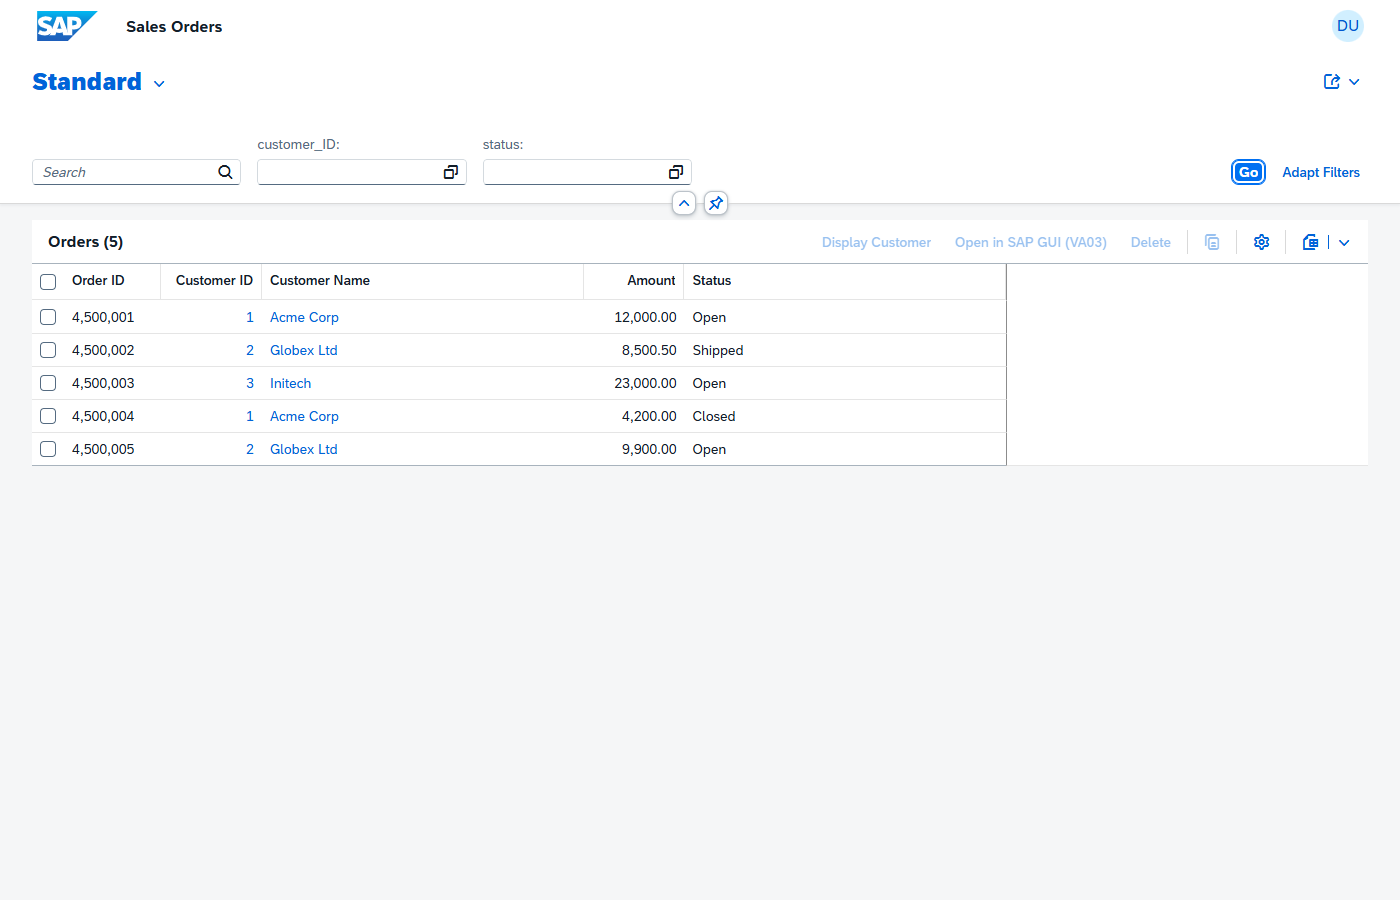
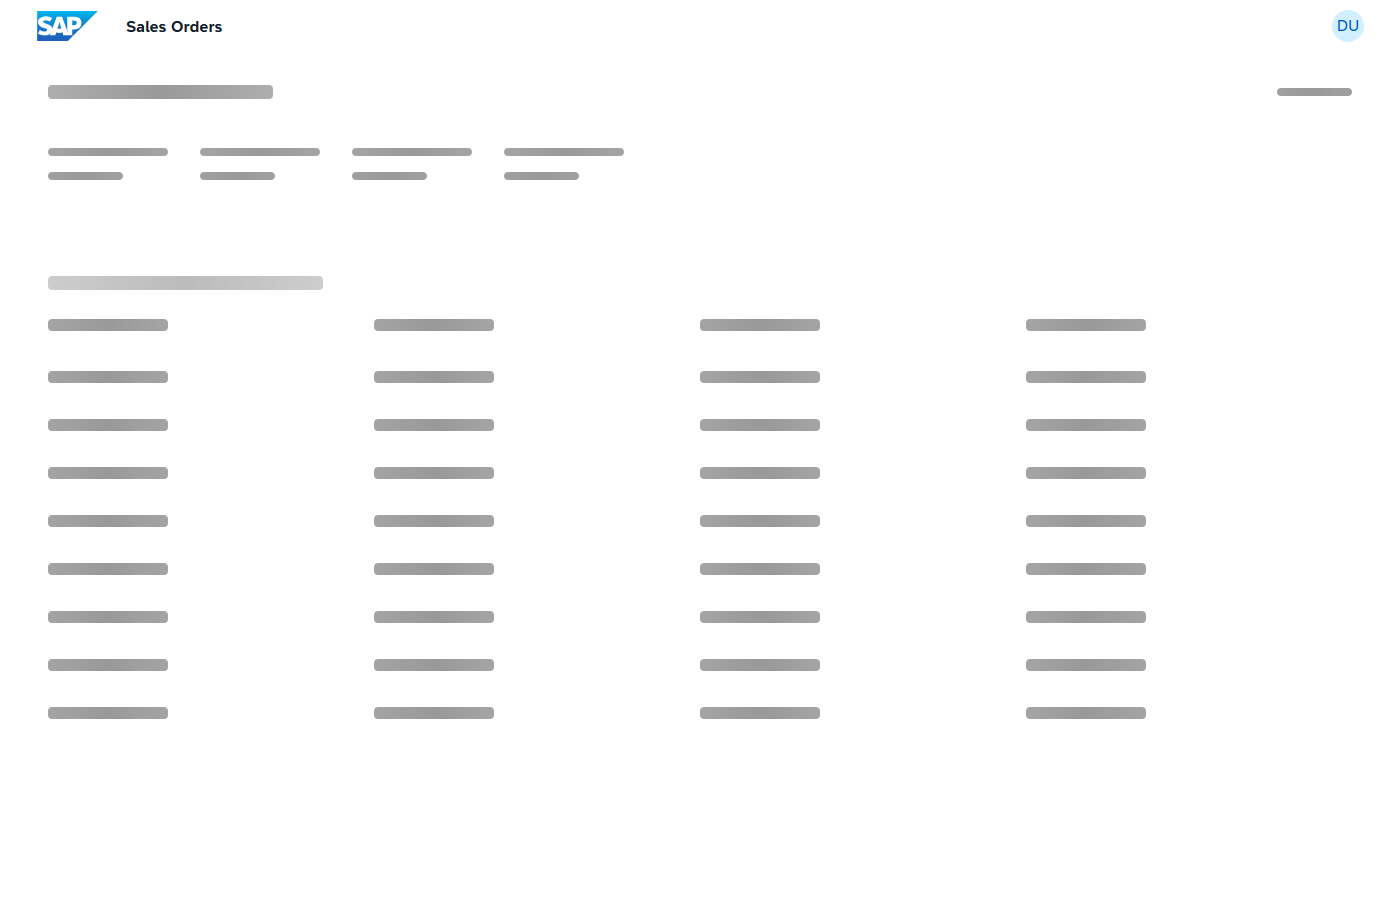
refactor: eliminate defensive hacks, sanitize manifest, clean flp bootstrap, and synchronize architecture docs

diff --git a/app/flp.html b/app/flp.html
@@ -84,7 +84,7 @@
                 }
             },
             applications: {
-                // Target Mapping 1: Order-manage -> App A
+                // Target Mapping 1: Order-manage -> App A (Sales Orders)
                 // Semantic Object: "Order", Action: "manage"
                 // Points to SAPUI5 Component crossn.orders at ./orders/webapp (List Report on Orders)
                 "Order-manage": {
@@ -95,7 +95,7 @@
                     url: "./orders/webapp"
                 },
 
-                // Target Mapping 2: Customer-display -> App B
+                // Target Mapping 2: Customer-display -> App B (Customers)
                 // Semantic Object: "Customer", Action: "display"
                 // Points to SAPUI5 Component crossn.customers at ./customers/webapp (List Report + Object Page)
                 // Target of the intent-based cross-app navigation link from App A
@@ -110,7 +110,6 @@
                 // Target Mapping 3: LegacyOrder-display -> Mock BSP Application
                 // Semantic Object: "LegacyOrder", Action: "display"
                 // Pattern 2: Cloud to On-Premise (BTP App to On-Premise ABAP BSP via SAP Cloud Connector)
-                // in a real system this URL is /sap/bc/bsp/sap/<app> on the ABAP backend, and it needs the ICF service active, a system alias and the catalog assigned to the user's role.
                 "LegacyOrder-display": {
                     title: "Legacy Orders",
                     description: "Legacy BSP Order System (Cloud to On-Prem)",
@@ -121,8 +120,6 @@
                 // Target Mapping 4: Order-displayGUI -> SAP GUI for HTML (WebGUI Transaction VA03)
                 // Semantic Object: "Order", Action: "displayGUI"
                 // Pattern 3: On-Premise to On-Premise (S/4HANA FES to SAP GUI Transaction VA03)
-                // In an on-premise system, configured in /UI2/FLPD_CUST with:
-                // Application Type: "Transaction", Transaction: "VA03", System Alias: "LOCAL"
                 "Order-displayGUI": {
                     title: "Display Sales Order (VA03)",
                     description: "SAP GUI for HTML Transaction (On-Prem to On-Prem)",
@@ -152,25 +149,15 @@
 
     <script type="text/javascript">
         sap.ui.getCore().attachInit(function () {
-            // Ensure the Demo group with the two tiles (Sales Orders, Customers) is configured
+            // Isolate our Demo group so only our 3 demo tiles appear on the Launchpad homepage
             var oLpConfig = sap.ui.require("sap/base/util/ObjectPath").get("services.LaunchPage.adapter.config", window["sap-ushell-config"]);
             if (oLpConfig && oLpConfig.groups && oLpConfig.groups.length > 0) {
-                var demoGroup = oLpConfig.groups[0];
-                demoGroup.title = "Demo";
-                demoGroup.tiles = demoGroup.tiles.filter(function (t) {
-                    return t.properties && t.properties.targetURL !== "#LegacyOrder-display";
-                });
-                oLpConfig.groups = [demoGroup];
+                oLpConfig.groups = [oLpConfig.groups[0]];
             }
 
-            var oRenderer = sap.ushell.Container.createRenderer("fiori2", true);
-            if (oRenderer && typeof oRenderer.then === "function") {
-                oRenderer.then(function (renderer) {
-                    renderer.placeAt("content");
-                });
-            } else if (oRenderer && typeof oRenderer.placeAt === "function") {
-                oRenderer.placeAt("content");
-            }
+            sap.ushell.Container.createRenderer("fiori2", true).then(function (renderer) {
+                renderer.placeAt("content");
+            });
         });
     </script>
 </head>

diff --git a/app/customers/webapp/ext/controller/CustomActions.js b/app/customers/webapp/ext/controller/CustomActions.js
@@ -1,30 +1,46 @@
-sap.ui.define([], function () {
+sap.ui.define([
+    "sap/m/MessageToast"
+], function (MessageToast) {
     "use strict";
 
     return {
-        // Cross-app navigation to legacy BSP via FLP Navigation service
-        openLegacyBSP: function (oContext, aSelectedContexts) {
-            var ctx = oContext || (aSelectedContexts && aSelectedContexts[0]);
-            if (!ctx) {
-                try {
-                    var oTable = sap.ui.getCore().byId("crossn.customers::CustomersList--fe::table::Customers::LineItem-innerTable");
-                    if (oTable && oTable.getSelectedItems && oTable.getSelectedItems().length > 0) {
-                        ctx = oTable.getSelectedItems()[0].getBindingContext();
-                    }
-                } catch (e) {}
-            }
-            var sId = ctx ? ctx.getProperty("ID") : "";
-            if (!sId) {
-                var m = (window.location.hash || "").match(/[?&]ID=([^&]+)/);
-                if (m) sId = m[1];
-            }
-            if (!sId) sId = "1";
+        /**
+         * Triggered from Customers List Report or Object Page
+         * Pattern 2: Cloud-to-On-Premise cross-navigation to Legacy ABAP BSP
+         * In production: BTP Launchpad -> SAP Cloud Connector -> ABAP ICF node (/sap/bc/bsp/sap/...)
+         */
+        openLegacyBSP: function (oBindingContext, aSelectedContexts) {
+            // Support both Object Page header action (oBindingContext)
+            // and List Report table selection (aSelectedContexts)
+            const context = (aSelectedContexts && aSelectedContexts.length > 0)
+                ? aSelectedContexts[0]
+                : oBindingContext;
 
-            sap.ushell.Container.getServiceAsync("Navigation").then(function (oNav) {
-                oNav.navigate({
-                    target: { semanticObject: "LegacyOrder", action: "display" },
-                    params: { customerId: String(sId) }
+            if (!context) {
+                MessageToast.show("Please select a customer first.");
+                return;
+            }
+
+            const customerId = context.getProperty("ID");
+            if (!customerId) {
+                MessageToast.show("No customer ID available for navigation.");
+                return;
+            }
+
+            // Cross-app navigation via FLP Shell Navigation Service
+            sap.ushell.Container.getServiceAsync("Navigation").then(function (oNavService) {
+                oNavService.navigate({
+                    target: {
+                        semanticObject: "LegacyOrder",
+                        action: "display"
+                    },
+                    params: {
+                        customerId: String(customerId)
+                    }
                 });
+            }).catch(function (err) {
+                console.error("Navigation to Legacy BSP failed:", err);
+                MessageToast.show("Navigation service error.");
             });
         }
     };

diff --git a/readme.md b/readme.md
@@ -1,117 +1,135 @@
-# SAP Fiori Launchpad Cross-App Navigation Demo
+# SAP Fiori Launchpad Cross-App Navigation Enterprise Demo
 
-A minimal, projector-ready demonstration of SAP Fiori Launchpad (FLP) intent-based cross-app navigation:
-1. **Cloud to Cloud (Fiori Elements to Fiori Elements)**: App A (`crossn.orders`) &rarr; App B (`crossn.customers`)
-2. **Cloud to Standard ABAP BSP**: App B (`crossn.customers`) &rarr; Legacy BSP Mock (`legacy-bsp`)
+A pristine, projector-ready demonstration of SAP Fiori Launchpad (FLP) Intent-Based Navigation across all three core enterprise topologies:
 
-Runs completely locally with **Node.js + SAP CAP** (`npm install && npx cds watch`). No SAP backend, no cloud deployment, and no login required.
+1. **Cloud to Cloud (BTP to BTP)**: Sales Orders (`crossn.orders`) &rarr; Customers (`crossn.customers`) via declarative CDS annotations.
+2. **Cloud to On-Premise (Hybrid)**: Customers (`crossn.customers`) &rarr; Legacy ABAP BSP (`legacy-bsp`) via Shell Navigation Service and SAP Cloud Connector architecture.
+3. **On-Premise to On-Premise (S/4HANA to Classic GUI)**: Sales Orders (`crossn.orders`) &rarr; SAP GUI for HTML WebGUI (`legacy-webgui`) displaying transaction `VA03`.
+
+Runs completely locally with **Node.js + SAP CAP** (`npm install && npx cds watch`). Zero cloud costs, zero hardcoded URLs, and no SAP backend credentials needed.
 
 ---
 
-## 3 Core Files to Show the Team on Projector
+## 4 Core Files to Show the Team on Projector
 
-When presenting, focus on these three concise files:
+When presenting code architecture to senior stakeholders, focus on these files:
 
-1. **Target Mapping (App B Inbound)**:  
-   [`app/customers/webapp/manifest.json`](file:///c:/Users/Admin/Downloads/Project/SAP_Cross_Navigation/cross-navigation/app/customers/webapp/manifest.json)  
-   Shows how App B registers its inbound intent `Customer-display` under `sap.app > crossNavigation > inbounds` with the `ID` parameter.
-2. **Intent-Based Navigation Link (App A Annotations)**:  
-   [`app/orders/annotations.cds`](file:///c:/Users/Admin/Downloads/Project/SAP_Cross_Navigation/cross-navigation/app/orders/annotations.cds)  
-   Shows `UI.DataFieldWithIntentBasedNavigation` on the Orders table mapping local property `customer_ID` to semantic object `Customer`, action `display`, and target parameter `ID`.
-3. **Launchpad Target Resolution & Bootstrap**:  
-   [`app/flp.html`](file:///c:/Users/Admin/Downloads/Project/SAP_Cross_Navigation/cross-navigation/app/flp.html)  
-   Shows `window["sap-ushell-config"]` configuring the "Demo" group, the 2 tiles (Sales Orders, Customers), and the target mapping entries (`Order-manage`, `Customer-display`, `LegacyOrder-display`).
+1. **Declarative Navigation (CDS Annotations)**:  
+   `app/orders/annotations.cds`  
+   Shows how `UI.DataFieldWithIntentBasedNavigation` maps local property `customer_ID` to semantic object `Customer`, action `display`, and target parameter `ID` with zero lines of JavaScript.
+2. **Target Inbound & Contract (App B Manifest)**:  
+   `app/customers/webapp/manifest.json`  
+   Shows how App B registers its inbound intent `Customer-display` under `sap.app > crossNavigation > inbounds` with the `ID` parameter signature.
+3. **Programmatic Cross-Navigation Controller**:  
+   `app/customers/webapp/ext/controller/CustomActions.js`  
+   Shows clean invocations of `sap.ushell.Container.getServiceAsync("Navigation")` for hybrid cross-system navigation.
+4. **Launchpad Target Resolution & Bootstrap**:  
+   `app/flp.html`  
+   Demonstrates how `window["sap-ushell-config"]` configures the launchpad tiles and resolves semantic intents into components, ICF nodes, and WebGUI transactions.
 
 ---
 
 ## How to Run
 
-1. Open a terminal in the `cross-navigation` folder:
+1. Open a terminal in the `cross-navigation` directory:
    ```bash
    npm install
    npx cds watch
    ```
-2. Open the Fiori Launchpad in your browser:
-   - **Exact FLP URL**: [http://localhost:4004/flp.html](http://localhost:4004/flp.html)
-   - **CAP Index URL**: [http://localhost:4004/](http://localhost:4004/) (links to `flp.html` under *Web Applications*)
+2. Open the Fiori Launchpad Sandbox in your browser:
+   * **Exact FLP URL**: [http://localhost:4004/flp.html](http://localhost:4004/flp.html)
+   * **CAP Welcome Page**: [http://localhost:4004/](http://localhost:4004/) (links to `flp.html` under *Web Applications*)
 
-*(Optional verification check: `node test-e2e.cjs` runs a headless browser automation testing all 4 steps.)*
+3. Run automated end-to-end verification (headless browser test covering all 3 topologies):
+   ```bash
+   node test-e2e.cjs
+   ```
 
 ---
 
-## 4-Step Presentation Demo Script
+## 5-Step Presentation Demo Script
 
 ### Step 1: Open Fiori Launchpad
-- Navigate to [http://localhost:4004/flp.html](http://localhost:4004/flp.html).
-- **What to show**: The Launchpad displays a single group titled **Demo** with two standard tiles:
-  - **Sales Orders** (App A - Source)
-  - **Customers** (App B - Target)
-- Click the **Sales Orders** tile.
+* Navigate to `http://localhost:4004/flp.html`.
+* **What to show**: The Launchpad displays the **Demo** group with three enterprise tiles:
+  * **Sales Orders** (App A - Source Cloud App)
+  * **Customers** (App B - Target Cloud App)
+  * **VA03 - Sales Order** (On-Premise Classic Transaction Tile)
+* Click the **Sales Orders** tile.
 
 ### Step 2: Source App A (Orders List Report)
-- App A opens at `#Order-manage`.
-- **What to show**: The table displays 5 orders loaded from SQLite memory database. Point out the **Customer ID** column:
-  - Each customer ID (e.g. `1`, `2`, `3`) is rendered as a clickable link.
-  - Explain to the team that this is purely declarative CDS metadata: `UI.DataFieldWithIntentBasedNavigation`. No UI controller code was written for App A.
+* Sales Orders opens at `#Order-manage`.
+* **What to show**:
+  * Point out the **Customer ID** column: each ID (`1`, `2`, `3`) is rendered as a clean hyperlink.
+  * Highlight that this is **100% declarative zero-code navigation** defined via CDS annotation `@UI.DataFieldWithIntentBasedNavigation`.
+  * Also point out the toolbar actions: `"Display Customer"` and `"Open in SAP GUI (VA03)"`.
 
-### Step 3: Intent-Based Navigation to App B (Customers)
-- Click on Customer ID **1** (Acme Corp).
-- **What to show**: The launchpad resolves the intent `#Customer-display?ID=1` and transitions smoothly to App B (`crossn.customers`).
-- App B opens displaying the Customer Object Page for **Acme Corp** (ID `1`, City `Mumbai`).
-- Explain that App B's `manifest.json` inbound filter automatically processed parameter `ID=1`.
+### Step 3: Pattern 1 — Cloud to Cloud Intent-Based Navigation
+* Click on Customer ID **1** (or select row 1 and click `"Display Customer"`).
+* **What to show**: The launchpad resolves `#Customer-display?ID=1` and transitions seamlessly to the Customers app.
+* The Customers app opens displaying **Acme Corp** (ID `1`, City `Mumbai`).
+* Explain that App B's `manifest.json` inbound filter automatically ingested the parameter `ID=1`.
 
-### Step 4: Navigate to Standard/Legacy BSP App
-- In App B's Object Page header (or List Report), click the custom button **"Open in legacy BSP"**.
-- **What to show**: A new browser window/tab opens displaying the **Legacy BSP Application (mock)** at `http://localhost:4004/legacy-bsp/index.html?customerId=1`.
-- The page shows: `Received Customer ID parameter: 1`.
-- Explain that this was triggered by less than 15 lines of JavaScript in [`CustomActions.js`](file:///c:/Users/Admin/Downloads/Project/SAP_Cross_Navigation/cross-navigation/app/customers/webapp/ext/controller/CustomActions.js) using the official FLP `Navigation` service (`sap.ushell.Container.getServiceAsync("Navigation")`).
+### Step 4: Pattern 2 — Cloud to On-Premise (Hybrid Navigation)
+* In the Customers app, click the header/toolbar button **"Open in legacy BSP"**.
+* **What to show**: A new browser window opens displaying the **Legacy BSP Application (mock)** at `legacy-bsp/index.html?customerId=1`.
+* The page displays: `Received Customer ID parameter: 1`.
+* **Architectural Point**: In production, this request routes from SAP BTP via **SAP Cloud Connector** through the corporate firewall into the on-premise ABAP ICF node `/sap/bc/bsp/sap/...`.
+
+### Step 5: Pattern 3 — On-Premise to On-Premise (Classic SAP GUI WebGUI)
+* Back in Sales Orders, select order `4500001` and click **"Open in SAP GUI (VA03)"** (or click the **"VA03 - Sales Order"** tile from the Launchpad).
+* **What to show**: A new window opens displaying **SAP GUI for HTML (WebGUI)** for transaction `VA03` with Sales Order `4500001` pre-filled.
+* **Architectural Point**: In an on-premise S/4HANA landscape, classic transactions run in the browser via WebGUI without requiring desktop software. Routing stays inside the intranet via SAP Web Dispatcher with system alias `LOCAL`.
 
 ---
 
 ## SAP Architecture Concepts Mapping
 
-| Demo Step / Artifact | SAP Enterprise Concept | Production SAP S/4HANA & BTP Equivalent |
-|---|---|---|
-| **FLP Tiles (`#Order-manage`, `#Customer-display`)** | **Fiori Launchpad Catalogs & Tiles** | Assigned via FLP Content Manager / Launchpad Spaces & Pages to the user's PFCG business role. |
-| **Semantic Object (`Customer`, `Order`, `LegacyOrder`)** | **Semantic Object** | Defined in transaction `/UI2/SEMOBJ` or BTP FLP Configuration. Represents a business entity independently of physical endpoints. |
-| **Action (`display`, `manage`)** | **Semantic Action** | Standard verbs (`display`, `manage`, `create`, `change`) defining what operation is performed on the semantic object. |
-| **`app/flp.html` `applications` block** | **Target Mapping** | In FLP Designer / Launchpad Content Manager, maps the combination of `SemanticObject-Action` to a physical component or URL. |
-| **App B Manifest `inbounds`** | **Inbound Navigation & Signature** | Declared in `sap.app > crossNavigation > inbounds` with allowed/required parameters (`ID`). Tells FLP this app satisfies `Customer-display`. |
-| **App A Manifest `outbounds`** | **Outbound Navigation** | Declared in `sap.app > crossNavigation > outbounds`. Required by SAP Fiori Elements runtime to authorize outbound link generation. |
-| **`app/orders/annotations.cds`** | **`UI.DataFieldWithIntentBasedNavigation`** | CDS annotation that binds a table column to an intent and uses `Common.SemanticObjectMappingType` to map local fields (`customer_ID`) to intent parameters (`ID`). |
-| **`CustomActions.js` (`getServiceAsync("Navigation")`)** | **FLP Navigation Service API** | The official UI5 shell service (`sap.ushell.services.Navigation`) for programmatic intent navigation (`nav.navigate({ target, params })`). |
-| **`LegacyOrder-display` (`applicationType: "URL"`)** | **BSP / Web Dynpro Target Mapping** | Points to `/sap/bc/bsp/sap/<bsp_app>` or `/sap/bc/webdynpro/sap/<wda_app>` on the ABAP system. |
-| **Legacy Mock HTML Page** | **ICF Service Node** | Hosted under the Internet Communication Framework (`SICF`) in the ABAP application server. Must be activated in transaction `SICF`. |
-| **Local URL Resolution** | **System Alias & RFC Destination** | Target mappings in production specify a System Alias (e.g. `S4FIN`), mapped in `/UI2/V_ALIASMAP` or `SM59` to the backend server. |
-| **Direct Browser Access** | **SAP Cloud Connector & Destination Service** | In SAP BTP Launchpad, requests to on-premise ABAP ICF services traverse the SAP Cloud Connector reverse tunnel via a BTP HTTP Destination. |
+| Demo Component | SAP Enterprise Concept | Production Equivalent (S/4HANA & BTP) |
+| :--- | :--- | :--- |
+| **FLP Tiles (`#Order-manage`, `#Customer-display`)** | **Fiori Catalogs & Groups** | Assigned via FLP Content Manager or SAP Build Work Zone to business roles (PFCG / IAS). |
+| **Semantic Object (`Customer`, `Order`, `LegacyOrder`)** | **Semantic Object** | Defined in transaction `/UI2/SEMOBJ` or BTP Site Manager. Decouples business entities from technical URLs. |
+| **Semantic Action (`display`, `manage`, `displayGUI`)** | **Semantic Action** | Standard operations performed on business objects. |
+| **`app/flp.html` `applications` block** | **Target Mapping** | Configured in `/UI2/FLPD_CUST` or BTP Content Manager to resolve intents into physical targets. |
+| **App B Manifest `inbounds`** | **Inbound Navigation Contract** | Declared in `sap.app > crossNavigation > inbounds` with parameter signatures (`ID`). |
+| **App A Manifest `outbounds`** | **Outbound Intent Declaration** | Declared in `sap.app > crossNavigation > outbounds`. Authorizes the Fiori Elements runtime to generate links. |
+| **`app/orders/annotations.cds`** | **`UI.DataFieldWithIntentBasedNavigation`** | CDS annotation that binds a table column to an intent and maps local properties to intent parameters. |
+| **`CustomActions.js` (`getServiceAsync("Navigation")`)** | **FLP Shell Navigation Service API** | The official UI5 shell service (`sap.ushell.services.Navigation`) for programmatic navigation (`nav.navigate({ target, params })`). |
+| **`legacy-bsp` mock** | **ABAP ICF BSP Application** | Hosted under `/sap/bc/bsp/sap/<app>` on the NetWeaver ABAP stack, accessed via SAP Cloud Connector. |
+| **`legacy-webgui` mock** | **SAP GUI for HTML (Transaction VA03)** | Internet Transaction Server (ITS) service `/sap/bc/gui/sap/its/webgui` accessed via SAP Web Dispatcher. |
 
 ---
 
-## Project Structure Overview
+## Clean Project Structure
 
-```
+```text
 cross-navigation/
 ├── app/
-│   ├── flp.html                     # Local Fiori Launchpad sandbox page
+│   ├── flp.html                     # Local Fiori Launchpad sandbox page (3 tiles, 4 target mappings)
 │   ├── services.cds                 # Aggregates CDS UI annotations
 │   ├── orders/
 │   │   ├── annotations.cds          # UI.LineItem & UI.DataFieldWithIntentBasedNavigation
 │   │   └── webapp/
 │   │       ├── Component.js         # Fiori Elements AppComponent (crossn.orders)
-│   │       ├── manifest.json        # Outbounds declaration & List Report routing
-│   │       └── i18n/i18n.properties
+│   │       ├── manifest.json        # Outbounds & List Report routing configuration
+│   │       ├── ext/controller/
+│   │       │   └── CustomActions.js # Programmatic actions (displayCustomer, displayGUI)
+│   │       └── i18n/i18n.properties # Localized strings for Sales Orders
 │   ├── customers/
 │   │   ├── annotations.cds          # LineItem, HeaderInfo & FieldGroup facets
 │   │   └── webapp/
 │   │       ├── Component.js         # Fiori Elements AppComponent (crossn.customers)
-│   │       ├── manifest.json        # Inbounds (Customer-display) & Object Page action
+│   │       ├── manifest.json        # Inbound (Customer-display) & custom action configuration
 │   │       ├── ext/controller/
-│   │       │   └── CustomActions.js # < 15 line Navigation service controller code
-│   │       └── i18n/i18n.properties
-│   └── legacy-bsp/
-│       └── index.html               # Plain HTML mock of an on-premise ABAP BSP app
-├── db/                              # (Untouched) schema.cds & CSV sample data
-├── srv/                             # (Untouched) service.cds (CrossService)
-├── test-e2e.cjs                     # Headless Chrome verification test runner
-└── README.md                        # Presentation guide & concept mapping
+│   │       │   └── CustomActions.js # Programmatic hybrid action (openLegacyBSP)
+│   │       └── i18n/i18n.properties # Localized strings for Customers
+│   ├── legacy-bsp/
+│   │   └── index.html               # Simulation of on-premise ABAP BSP order app
+│   └── legacy-webgui/
+│       └── index.html               # Simulation of classic SAP GUI for HTML (VA03)
+├── db/                              # schema.cds & initial CSV test data
+├── srv/                             # service.cds (CrossService OData V4)
+├── test-e2e.cjs                     # Headless Chrome 5-step automated verification suite
+├── SAP_Cross_Navigation.pptx        # Executive 16:9 presentation deck (11 slides)
+└── README.md                        # Architectural guide & demo walkthrough
 ```
